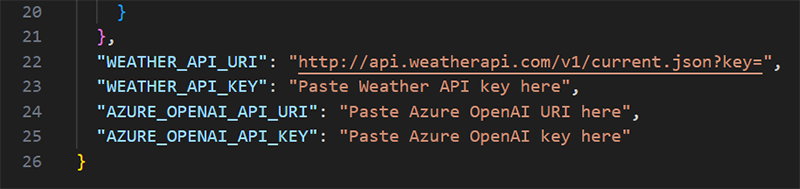
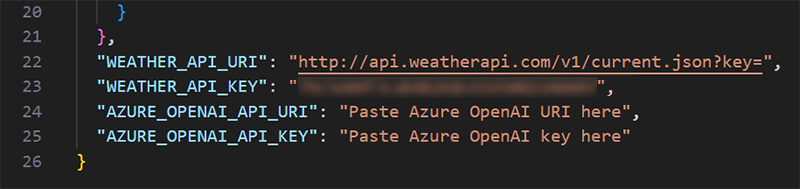
edits-060324-1304

Changed region(s): [[0.3438, 0.3968, 0.7812, 0.5026]]

diff --git a/mesh/develop/getting-started/mesh-201-tutorial/mesh-201-06-open-ai.md b/mesh/develop/getting-started/mesh-201-tutorial/mesh-201-06-open-ai.md
@@ -4,14 +4,14 @@ description: Learn how to set up a question and answer dialog that uses Azure Op
 ms.service: mesh
 author: vtieto
 ms.author: vinnietieto
-ms.date: 5/28/2024
+ms.date: 6/3/2024
 ms.topic: Tutorial
 keywords: Microsoft Mesh, getting started, Mesh 201, tutorial, GitHub, WebSlates, web, cloud scripting, AI, Azure AI, artificial intelligence
 ---
 
 # Mesh 201 Tutorial Chapter 6: Get answers to questions using Azure OpenAI
 
-In this chapter, we move on to the fifth and final station where where you'll learn how to implement Azure OpenAI as an AI assistant. Note that you could use any AI service you want here (for example, Copilot Studio). Keeping with the theme of searching for a location for a wind farm, the AI assistant will be customized to answer wind farm-related questions.
+In this chapter, we move on to the fifth and final station where you'll learn how to implement an Azure OpenAI-based virtual assistant or "chatbot". Note that you could use any AI service you want here (for example, Copilot Studio). Keeping with the theme of searching for a location for a wind farm, the AI assistant will be customized to answer wind farm-related questions.
 
 ## Setting up for this station
 
@@ -72,7 +72,7 @@ The resource deploys and you should see a message saying that the deployment is 
 
     ![__________________________________](../../../media/mesh-201/117-keys-and-endpoints.png)
 
-1. On the **Keys and Endpoint** page, click the "Copy to clipboard" button for **KEY 1** *or* *KEY 2* (it doesn't matter which one) and then paste it into a text file using Windows Notepad or another text editor.
+1. On the **Keys and Endpoint** page, click the "Copy to clipboard" button for **KEY 1** *or* *KEY 2** (it doesn't matter which one) and then paste it into a text file using Windows Notepad or another text editor.
 
     ![__________________________________](../../../media/mesh-201/118-copy-key-and-endpoint.png)
 
@@ -82,7 +82,7 @@ The resource deploys and you should see a message saying that the deployment is 
 
 ## Add the prefab for Station 5
 
-1. In the **Project** folder, navigate to **Assets** > **MeshCloudScripting** and then drag **5 - AIAssistant** to the **Hierarchy** and place it as a child object to **Mesh Cloud Scripting** and just under **4 - GlobeWithCloudScripting**.
+1. In the **Project** folder, navigate to **Assets** > **MeshCloudScripting** and then drag the **5 - AIAssistant** prefab to the **Hierarchy** and place it as a child object to **Mesh Cloud Scripting** and just under **4 - GlobeWithCloudScripting**.
 
     ![__________________________________](../../../media/mesh-201/106-add-ai-assistant-prefab.png)
 
@@ -97,7 +97,7 @@ The resource deploys and you should see a message saying that the deployment is 
 
     ![__________________________________](../../../media/mesh-201/085-config-code.png)
 
-1. Paste the URI and key that you got earlier from the Azure Portal into these two lines, replacing the placeholder comments.
+1. Paste the URI and key that you copied earlier from the Azure Portal into these two lines, replacing the placeholder comments.
 
     ![__________________________________](../../../media/mesh-201/107-openai-uri-and-key.png)
 
@@ -111,7 +111,7 @@ The resource deploys and you should see a message saying that the deployment is 
 
     ![__________________________________](../../../media/mesh-201/088-extra-pkg-reference.png)
 
-1. Delete the placeholder *PackageReference* element and replace it with the line below:
+1. Delete the comment and replace it with the line below:
 
    	`<PackageReference Include="Azure.AI.OpenAI" Version="1.0.0-beta.15" />`
 
@@ -160,13 +160,13 @@ The resource deploys and you should see a message saying that the deployment is 
 
     The code does the following:
 
-    - Call the Mesh Cloud Scripting through the method named *ShowInputDialogToParticipantAsync()*. The arguments are the message you want to prompt the user with ("Ask Azure OpoenAI"), who you want to display the input dialog to (*args.Participant*).
+    - Call Mesh Cloud Scripting through the method named *ShowInputDialogToParticipantAsync()*. The arguments are the message you want to prompt the user with ("Ask Azure OpoenAI") and who you want to display the input dialog to (*args.Participant*).
     - When the input dialog pops up, check for errors.
     - Save whatever the participant typed in (the *result*) to *participantInput* as a String. 
 
-## Send ChatGPT the result of the input dialog
+## Send GPT-3.5 Turbo the result of the input dialog
 
-The code below sends ChatGPT the result of the input dialog with instructions on how to respond with the current weather data.
+The code below sends the GPT-3.5 Turbo model the result of the input dialog with instructions on how to respond with the current weather data.
 
 1. Copy the code below:
 
@@ -197,9 +197,9 @@ The code below sends ChatGPT the result of the input dialog with instructions on
     The code does the following:
 
     - Create an instance of the *ChatCompletionOptions* class named *chatCompletionOptions*.
-    - Intialize a variable named *DeploymentName* with the version of ChatGPT we're using ("gpt-35-turbo").
-    - Initialize a new instance of *ChatRequestSystemMessage* with guidance on how the assistant should answer questions. This includes the locations with the weather data you're interested and the current conditions (*_currentWeatherText*) for those locations. The value of *_currentWeatherText* was received when we called weatherapi.com in Chapter 5.
-    - Initialize a new instance of *ChatRequestUserMessag* with the question the participant asked.
+    - Intialize a variable named *DeploymentName* with the OpenAI model we're using ("gpt-35-turbo").
+    - Initialize a new instance of *ChatRequestSystemMessage* with guidance on how the assistant should answer questions. This includes the locations with the weather data you're interested in and the current conditions (*_currentWeatherText*) for those locations. The value of *_currentWeatherText* was received when we called weatherapi.com in Chapter 5.
+    - Initialize a new instance of *ChatRequestUserMessage* with the question the participant asked.
     - Send the information about the request to the LLM (Large Language Model).
 
 ## Add the code that displays the response from the LLM
@@ -254,7 +254,7 @@ Congratulations! In this Mesh 201 tutorial, you learned about the following:
 - Loading local shared and non-shared HTML files into a WebSlate.
 - Using a 3D asset to call a Web API and download data into a WebSlate.
 - Pull data from internal or public sources into your scene and display it in 3D.
-- Set up AI-powered interactions using OpenAI.
+- Set up AI-powered interactions using an Azure OpenAI-based virtual assistant or "chatbot".
 
 Now you can put your new Mesh skills to work and build collaborative experiences that are even more useful and exciting!
 
@@ -276,4 +276,4 @@ If you want to build and publish this tutorial project, do the following:
 
 **Challenge**
 
-Try creating your own Station with a WebSlate and a button that loads an HTML file. Be sure to share your efforts in our [Mesh Developer Forum](https://techcommunity.microsoft.com/t5/mesh-creators/welcome-to-the-microsoft-mesh-creator-discussion-space-a-hub-for/m-p/3938730)!
+Try creating your own station with a WebSlate and a button that loads an HTML file. Be sure to share your efforts in our [Mesh Developer Forum](https://techcommunity.microsoft.com/t5/mesh-creators/welcome-to-the-microsoft-mesh-creator-discussion-space-a-hub-for/m-p/3938730)!

diff --git a/mesh/develop/getting-started/mesh-201-tutorial/mesh-201-05-live-weather-data.md b/mesh/develop/getting-started/mesh-201-tutorial/mesh-201-05-live-weather-data.md
@@ -4,7 +4,7 @@ description: Learn how to set up an interactive globe you can click to get live 
 ms.service: mesh
 author: vtieto
 ms.author: vinnietieto
-ms.date: 5/23/2024
+ms.date: 6/3/2024
 ms.topic: Tutorial
 keywords: Microsoft Mesh, getting started, Mesh 201, tutorial, GitHub, WebSlates, web, cloud scripting
 ---
@@ -57,7 +57,7 @@ In order to complete this station, you'll need to insert a *key* into some code 
 
     ![__________________________________](../../../media/mesh-201/076-cs-component.png)
 
-    Any GameObject that you intend to be under the control of cloud scripting must be added as a child to **Mesh Cloud Scripting**.
+    Any GameObject that you intend to be under the control of cloud scripting must be added as a child to the **Mesh Cloud Scripting** GameObject.
 
 ## Add the prefab for Station 4
 
@@ -88,7 +88,7 @@ In order to complete this station, you'll need to insert a *key* into some code 
 
     ![__________________________________](../../../media/mesh-201/086-api-key-pasted.png)
 
-    You can ignore the last two lines--we'll we working with those in the next chapter.
+    You can ignore the last two lines--we'll be working with those in the next chapter.
 
 1. Save and close the JSON file.
 
@@ -108,7 +108,7 @@ In order to complete this station, you'll need to insert a *key* into some code 
 
     ![__________________________________](../../../media/mesh-201/104-itemgroup-weatherapi.png)
 
-   This ensures that we include some scripts in the local *WeatherAPI* folder.
+   This ensures that we include some scripts from the local *WeatherAPI* folder.
 
     ![__________________________________](../../../media/mesh-201//105-weatherapi-folder.png)
 
@@ -120,7 +120,7 @@ In order to complete this station, you'll need to insert a *key* into some code 
 
     ![__________________________________](../../../media/mesh-201/089-app-dot-cs-highlighted.png)
 
-    The first thing we'll do is ensure that when an attendee clicks the globe, the displays of the weather data are refreshed.
+    The first thing we'll do is ensure that when an attendee clicks on the globe, the displays of the weather data are refreshed.
 
 1. In the App.cs file, navigate to line 47, where'll you see a comment telling you to paste some code there.
 
@@ -149,7 +149,7 @@ In order to complete this station, you'll need to insert a *key* into some code 
     
     - Initializes the *refreshButton* variable with the *Earth* GameObject in the scene.
     - Initializes the *refreshButtonNode* variable with the *InteractableNode* attached to the *Earth* GameObject. (If a GameObject in the scene has a *Mesh Interactable Setup* component attached, which *Earth* does, the component adds a Mesh Cloud Scripting [InteractableNode](../../script-your-scene-logic/cloud-scripting/cloud-scripting-programmers-guide.md#interactablenode)).
-    - When an attendee clicks on *Earth*, it fires the InteractableNode's *Selected* event and calls the *GetCurrentWeather* method. This generates an [HTTP request](https://learn.microsoft.com/en-us/dotnet/fundamentals/networking/http/httpclient) to get the weather data.
+    - When an attendee clicks on the globe, it fires the InteractableNode's *Selected* event and calls the *GetCurrentWeather* method. This generates an [HTTP request](https://learn.microsoft.com/en-us/dotnet/fundamentals/networking/http/httpclient) to get the weather data.
 
 1. Save the file.
 
@@ -165,6 +165,8 @@ In order to complete this station, you'll need to insert a *key* into some code 
 1. To see the weather data, click anywhere on the globe. The temperature, average wind speed, and peak wind speed are shown for three cities: 1) Lagos, Nigeria, 2) Dublin, Ireland, and 3) Redmond, WA.
 
     ![__________________________________](../../../media/mesh-201/093-weather-data-displayed.png)
+
+1. When you're finished, press the Play button again to exit Play mode.
 
 ## Next Steps
 

diff --git a/mesh/develop/getting-started/mesh-201-tutorial/mesh-201-01-overview-set-up-and-get-started.md b/mesh/develop/getting-started/mesh-201-tutorial/mesh-201-01-overview-set-up-and-get-started.md
@@ -22,7 +22,7 @@ As of late May 2024, the Mesh 201 tutorial has been updated to include two addit
 
     ![A screenshot of attendess in an event clicking an interactive globe to view live weather data. ](../../../media/mesh-201/100-using-weather-data.png)
 
-- Set up AI-powered interactions using OpenAI. An attendee can click an "Info" button and ask questions about the best locations for wind farms. You, the developer, will add code that will provide the OpenAI LLM ([Large Language Model](https://learn.microsoft.com/en-us/training/modules/introduction-large-language-models/) with some context for the wind farm-related questions attendees will likely be asking.
+- Set up AI-powered interactions using an OpenAI-based virtual assistant or "chatbot". An attendee can click an "Info" button and ask questions about the best locations for wind farms. You, the developer, will add code that will provide the OpenAI LLM ([Large Language Model](https://learn.microsoft.com/en-us/training/modules/introduction-large-language-models/) with some context for the wind farm-related questions attendees will likely be asking.
 
     ![A screenshot of attendees in an event using OpenAI to ask questions about where to build wind farms.](../../../media/mesh-201/101-using-open-ai.png)
 
